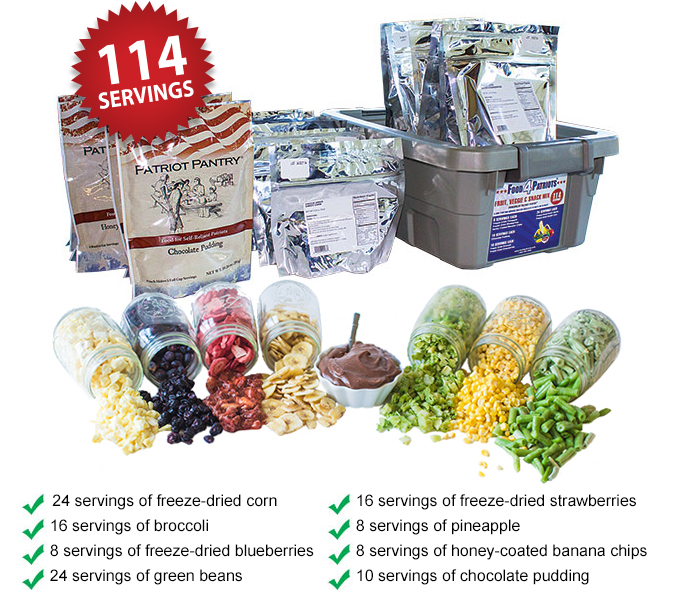
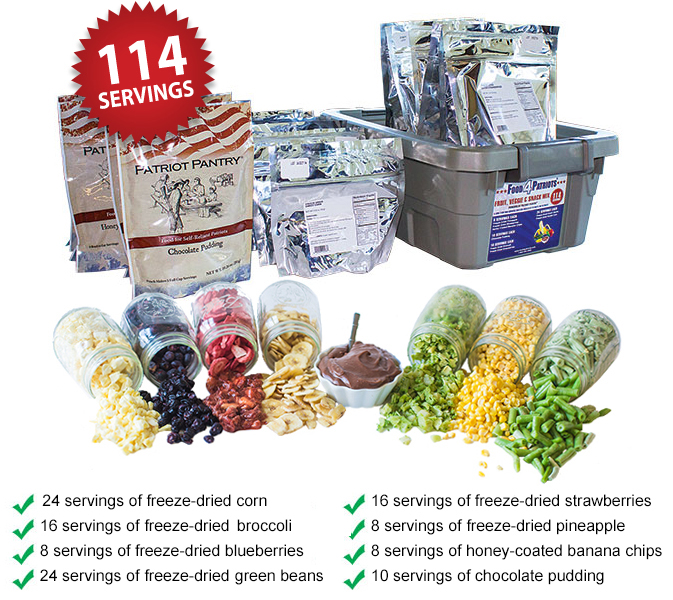
FFP-786 QA Test New F&V FunnelFFP-800 Page errors

Changed region(s): [[0.0, 0.81, 0.9985, 0.99]]

diff --git a/letter/fruitveggie/content.php b/letter/fruitveggie/content.php
@@ -7,7 +7,7 @@
 	<p><strong>Fruits and veggies are vital to your overall survival food plan.</strong></p>
 	<p>There’s no doubt – in order to get and stay healthy, you’ve got to get multiple servings of fruit and vegetables each day.</p>
 	<p><strong>You’ll especially need them when facing a crisis, when these foods are hard, if not impossible to come by…</strong></p>
-	<p>There’s no other food group that’s as life giving as these orchard and garden delights…chocked full of vitamins, minerals, antioxidants, and fiber.</p>
+	<p>There’s no other food group that’s as life giving as these orchard and garden delights…, chock full of vitamins, minerals, antioxidants, and fiber.</p>
 	<p>Even if you’re more of a “meat and potatoes” kind of person, most everyone enjoys a bowl of sweet, juicy strawberries or garden fresh veggies like broccoli and green beans.</p>
 	<p>Truth is, without an adequate intake of fruits and veggies, your body simply isn’t getting the nutrients it needs to work right.</p>
 	<p>And folks, despite what others may claim, <strong>there’s no pill you can pop that will replace them.</strong></p>
@@ -19,14 +19,14 @@
 	<p>When you add high-quality fruits and vegetables to your existing survival food stockpile, you’ll enjoy knowing you’re optimizing the level of nutrients your body needs</p>
 	<p>What Are Some Other Crucial Benefits of fruits and vegetables?</p>
 	<ul class="fa-ul fa-ul-space">
-		<li><i class="fa-li fa fa-check"></i><strong>Better regularity.</strong> Fiber keeps your digestive tract healthy and helps move waste out of your system, which helps you feel your best and be “light on your feet” – which is critical when you need to move fast.</li>
+		<li><i class="fa-li fa fa-check"></i><strong>Better regularity</strong> Fiber keeps your digestive tract healthy and helps move waste out of your system, which helps you feel your best and be “light on your feet” – which is critical when you need to move fast.</li>
 		<li><i class="fa-li fa fa-check"></i><strong>Faster healing and boosted immunity</strong> Our bodies don’t make all the vitamins we need, so we need to eat foods that are rich in them to recover faster from infections and illness, which helps if you’re injured or catch a nasty bug.</li>
 		<li><i class="fa-li fa fa-check"></i><strong>Clear thinking</strong> Whole plant foods contain the nutrients that keep your brain sharp as a tack – especially important in a survival situation.</li>
-		<li><i class="fa-li fa fa-check"></i><strong>Natural anti-inflammatory.</strong> Antioxidants in fruit and veggies help protect your ticker and other vital organs by scavenging for free radicals that cause sickness.</li>
+		<li><i class="fa-li fa fa-check"></i><strong>Natural anti-inflammatory</strong> Antioxidants in fruit and veggies help protect your ticker and other vital organs by scavenging for free radicals that cause sickness.</li>
 	</ul>
 
-	<p>Okay…so there’s no arguing that you’ve got to have an adequate amount of fruits and vegetables ever day for <strong>better</strong> health…but how do you work them into your survival food plan? </p>
-	<p>I mean…fresh fruits and veggies spoil after just a few days, right?</p>
+	<p>Okay… so there’s no arguing that you’ve got to have an adequate amount of fruits and vegetables every day for <strong>better</strong> health… but how do you work them into your survival food plan? </p>
+	<p>I mean… fresh fruits and veggies spoil after just a few days, right?</p>
 	<p>How are you supposed to survive on rotting produce?</p>
 	<p>Well, you’re not.</p>
 
@@ -53,7 +53,7 @@
 			</div>
 			<div class="col-xs-6 col-sm-4 col-md-4">
 				<img class="img-responsive center-block thumbnail" src="/media/images/f4p/food/fvs-greenbeans.jpg"  alt="24 servings of green beans">
-				<div class="caption"><strong>24 servings</strong> of green beans</div>
+				<div class="caption"><strong>24 servings</strong> of freeze-dried of green beans</div>
 			</div>
 			<div class="col-xs-6 col-sm-4 col-md-4">
 				<img class="img-responsive center-block thumbnail" src="/media/images/f4p/food/fvs-strawberries.jpg"  alt="16 servings of freeze-dried strawberries">
@@ -83,7 +83,7 @@
 
 	<h2 class="darkRed text-center">Lasts 25 Years, But Tastes As Fresh As If You Just Plucked Them Off A Tree Or Harvested Them Out Of Your Very Own Garden!</h2>
 	<p>Everything is super-easy to prepare. <u>Just add hot water!</u></p>
-	<p>Native Americans and Pioneers got through the toughest winters and survival situations with the same kind of fruits and vegetables you will find in our Fruit and Veggie kit!</p>
+	<p>Native Americans and Pioneers got through the toughest winters and survival situations with the same kind of fruits and vegetables you will find in our Fruit, Veggie and Snack Kit!</p>
 	<p>Plus, it&rsquo;s very high in essential vitamins and minerals</p>
 	<p>You get <strong>114 total servings</strong> of delectable, healthy fruits and vegetables to help you survive the crisis we all know is coming.</p>
 
